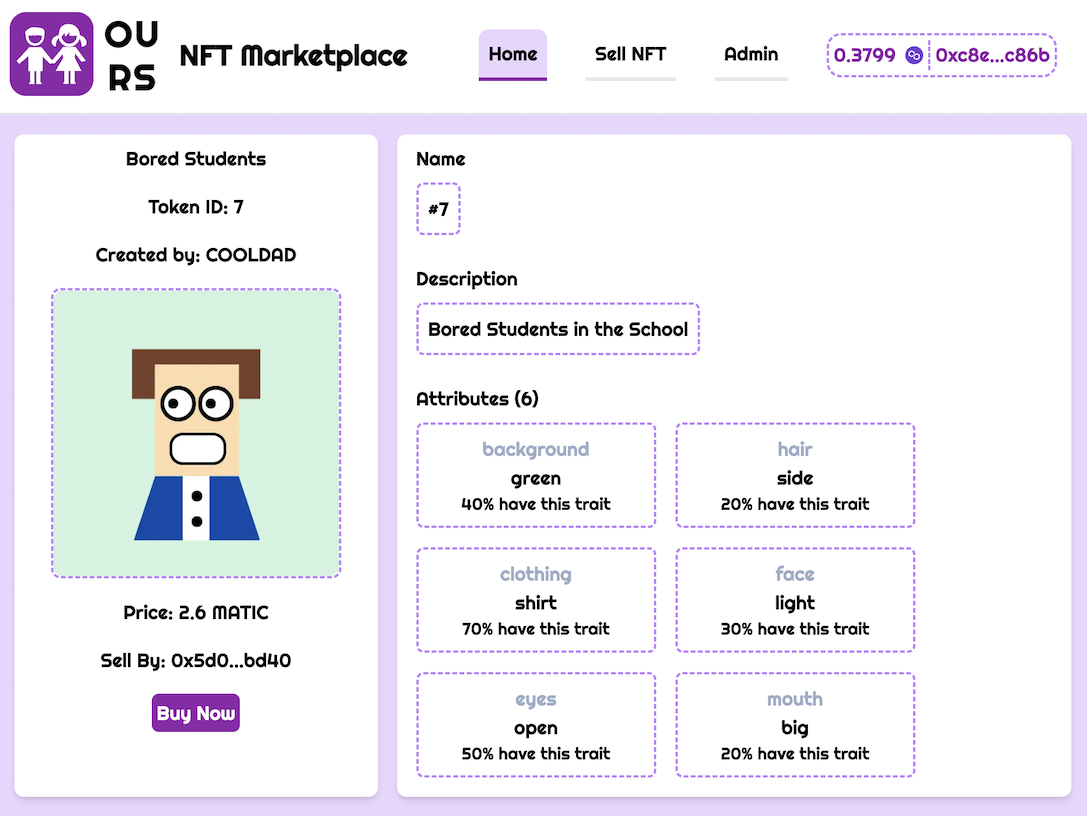
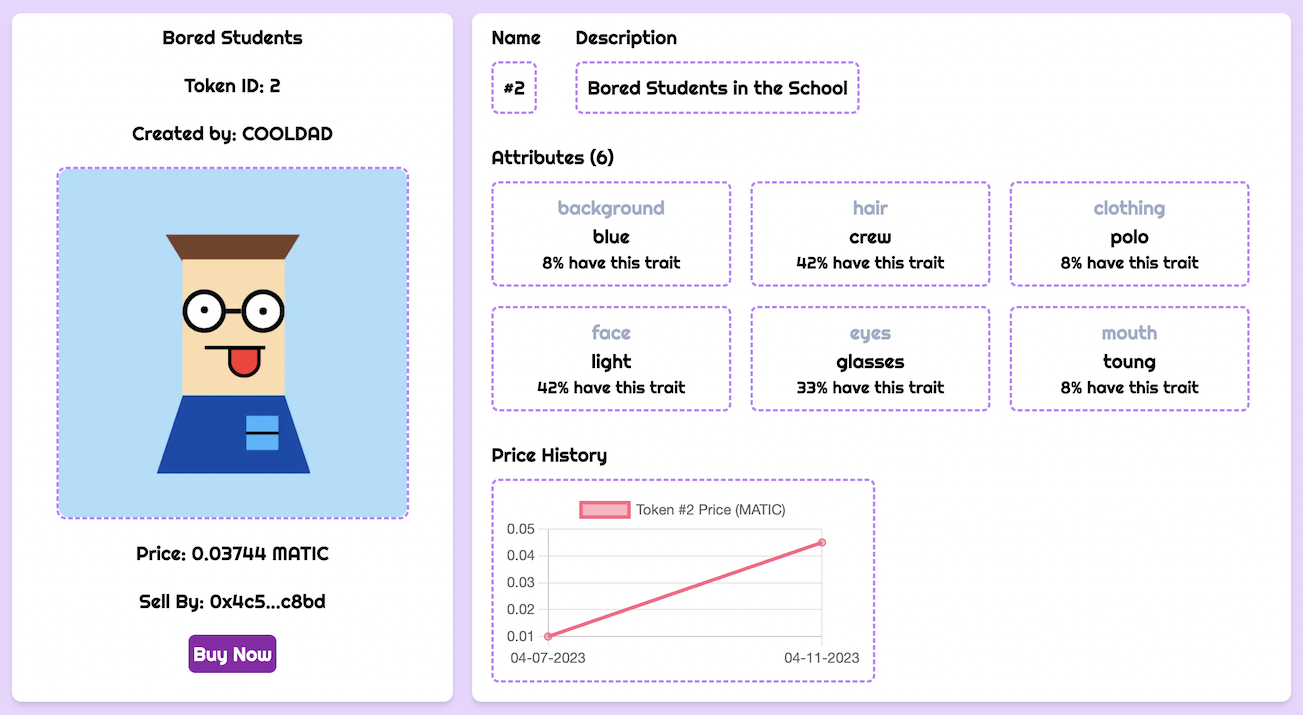
add price chart

diff --git a/frontend_nextjs/src/pages/[collectionContract]/[tokenId].js b/frontend_nextjs/src/pages/[collectionContract]/[tokenId].js
@@ -6,6 +6,7 @@ import { ethers } from "ethers";
 import { useRouter } from "next/router";
 import Image from "next/image";
 import Alert from "@/components/Alert";
+import Chart from "@/components/PriceChart";
 
 export default function Nft() {
   const {
@@ -56,6 +57,17 @@ export default function Nft() {
       )
     : null;
 
+  // const alltransactions = data ? data.boughtNFTs : null;
+  // console.log("a", alltransactions);
+
+  const transactionsArr = data
+    ? data.boughtNFTs.filter(
+        (transaction) =>
+          transaction.nftContractAddr === collectionContract &&
+          transaction.tokenId === tokenId
+      )
+    : null;
+
   useEffect(() => {
     const calculateRarity = async (listings) => {
       const _theNftContract = [nftContract, nft2Contract].find(
@@ -88,16 +100,6 @@ export default function Nft() {
     }
   }, []);
 
-  const convertAddress = (addr) => {
-    return addr.slice(0, 5) + "..." + addr.slice(addr.length - 4);
-  };
-
-  const showSeller = !seller
-    ? ""
-    : seller === walletAddress
-    ? "You"
-    : convertAddress(seller);
-
   useEffect(() => {
     const getNftUri = async () => {
       const _theNftContract = [nftContract, nft2Contract].find(
@@ -129,6 +131,16 @@ export default function Nft() {
       getNftUri();
     }
   }, []);
+
+  const convertAddress = (addr) => {
+    return addr.slice(0, 5) + "..." + addr.slice(addr.length - 4);
+  };
+
+  const showSeller = !seller
+    ? ""
+    : seller === walletAddress
+    ? "You"
+    : convertAddress(seller);
 
   const totalPrice = price
     ? (
@@ -200,13 +212,17 @@ export default function Nft() {
           </button>
         </div>
         <div className={styles.nftInfoRight}>
-          <div className={styles.nftInfoRightItem}>
-            <p className={styles.nftInfoRightItemText}>Name</p>
-            <div className={styles.nftDescriptionContainer}>{name}</div>
-          </div>
-          <div className={styles.nftInfoRightItem}>
-            <p className={styles.nftInfoRightItemText}>Description</p>
-            <div className={styles.nftDescriptionContainer}>{description}</div>
+          <div className="flex flex-row">
+            <div className={styles.nftInfoRightItem}>
+              <p className={styles.nftInfoRightItemText}>Name</p>
+              <div className={styles.nftDescriptionContainer}>{name}</div>
+            </div>
+            <div className={styles.nftInfoRightItem}>
+              <p className={styles.nftInfoRightItemText}>Description</p>
+              <div className={styles.nftDescriptionContainer}>
+                {description}
+              </div>
+            </div>
           </div>
           <div className={styles.nftInfoRightItem}>
             <p className={styles.nftInfoRightItemText}>
@@ -239,6 +255,12 @@ export default function Nft() {
                   </div>
                 </div>
               ))}
+            </div>
+          </div>
+          <div className={styles.nftInfoRightItem}>
+            <p className={styles.nftInfoRightItemText}>Price History</p>
+            <div className={styles.nftChartContainer}>
+              <Chart transactions={transactionsArr} tokenId={tokenId} />
             </div>
           </div>
         </div>

diff --git a/frontend_nextjs/src/components/OwnerWithdraw.js b/frontend_nextjs/src/components/OwnerWithdraw.js
@@ -4,7 +4,8 @@ import { useGlobalContext } from "../context";
 import { ethers } from "ethers";
 
 export default function OwnerWithdraw() {
-  const { contract, walletAddress, setShowAlert } = useGlobalContext();
+  const { contract, walletAddress, setShowAlert, provider, setWalletBalance } =
+    useGlobalContext();
   const [withdrawAmount, setWithdrawAmount] = useState("");
   const [contractBalance, setContractBalance] = useState("");
   const [ownerBalance, setOwnerBalance] = useState("");
@@ -30,6 +31,13 @@ export default function OwnerWithdraw() {
   const showWalletAddress = walletAddress ? convertAddress(walletAddress) : "";
   const showContractAddress = contract ? convertAddress(contract.target) : "";
 
+  const updateAccountBalance = async () => {
+    console.log("not call?");
+    const balance = (await provider.getBalance(walletAddress)).toString();
+    const balanceInETH = ethers.formatEther(balance);
+    setWalletBalance(balanceInETH);
+  };
+
   const handleOwnerWithdraw = async () => {
     const withdrawInWei = ethers.parseEther(withdrawAmount);
     if (contract) {
@@ -51,6 +59,7 @@ export default function OwnerWithdraw() {
             )}) withdrew ${ethers.formatEther(amount)} MATIC.`,
           });
           setUpdateBalance((pre) => !pre);
+          updateAccountBalance();
         });
       } catch (error) {
         console.log(error);

diff --git a/frontend_nextjs/src/components/UserWithdraw.js b/frontend_nextjs/src/components/UserWithdraw.js
@@ -4,7 +4,8 @@ import { useGlobalContext } from "../context";
 import { ethers } from "ethers";
 
 export default function UserWithdraw() {
-  const { contract, walletAddress, setShowAlert } = useGlobalContext();
+  const { contract, walletAddress, setShowAlert, provider, setWalletBalance } =
+    useGlobalContext();
   const [userBalance, setUserBalance] = useState("");
   const [updateBalance, setUpdateBalance] = useState(false);
 
@@ -18,12 +19,18 @@ export default function UserWithdraw() {
       }
     };
     getUserBalance();
-  }, [updateBalance]);
+  }, [updateBalance, walletAddress]);
 
   const convertAddress = (addr) => {
     return addr.slice(0, 5) + "..." + addr.slice(addr.length - 4);
   };
   const showWalletAddress = walletAddress ? convertAddress(walletAddress) : "";
+
+  const updateAccountBalance = async () => {
+    const balance = (await provider.getBalance(walletAddress)).toString();
+    const balanceInETH = ethers.formatEther(balance);
+    setWalletBalance(balanceInETH);
+  };
 
   const handleUserWithdraw = async () => {
     if (contract) {
@@ -45,6 +52,7 @@ export default function UserWithdraw() {
             )}) withdrew ${ethers.formatEther(amount)} MATIC.`,
           });
           setUpdateBalance((pre) => !pre);
+          updateAccountBalance();
         });
       } catch (error) {
         console.log(error);

diff --git a/frontend_nextjs/src/components/PriceChart.js b/frontend_nextjs/src/components/PriceChart.js
@@ -1,0 +1,39 @@
+import { ethers } from "ethers";
+import { Line } from "react-chartjs-2";
+import Chart from "chart.js/auto";
+import moment from "moment";
+
+export default function PriceChart({ transactions, tokenId }) {
+  const options = {
+    responsive: true,
+    plugins: {
+      legend: {
+        position: "top",
+      },
+      title: {
+        display: false,
+        text: "Chart.js Line Chart",
+      },
+    },
+  };
+
+  const labels = transactions
+    ? transactions.map((tran) => moment.unix(tran.time).format("MM-DD-YYYY"))
+    : [];
+
+  const data = {
+    labels,
+    datasets: [
+      {
+        label: `Token #${tokenId} Price (MATIC)`,
+        data: transactions
+          ? transactions.map((tran) => ethers.formatEther(tran.price))
+          : [],
+        borderColor: "rgb(255, 99, 132)",
+        backgroundColor: "rgba(255, 99, 132, 0.5)",
+      },
+    ],
+  };
+
+  return data ? <Line options={options} data={data} /> : null;
+}

diff --git a/frontend_nextjs/src/styles/index.js b/frontend_nextjs/src/styles/index.js
@@ -82,9 +82,12 @@ const styles = {
   nftAttributesContainer: "flex flex-row flex-wrap",
   nftAttributeBox:
     "flex flex-col items-center w-[200px] border-[2px] border-dashed border-purple-400 m-2 rounded-md p-2 hover:bg-purple-200",
+
   nftAttributeKey: "text-siteWhite",
   nftAttributeValue: "",
   nftAttributeRare: "text-sm",
+  nftChartContainer:
+    "border-[2px] border-dashed border-purple-400 m-2 rounded-md w-fit p-2 hover:bg-purple-200",
 
   // Forms on Sell-NFT page
   sellContainer:

diff --git a/frontend_nextjs/src/components/Card.js b/frontend_nextjs/src/components/Card.js
@@ -9,10 +9,10 @@ export default function Card({
   tokenId,
   seller,
   totalPrice,
-  walletAddress,
   nftContractAddr,
 }) {
-  const { contract, setShowAlert, setUpdateUI } = useGlobalContext();
+  const { contract, setShowAlert, setUpdateUI, walletAddress } =
+    useGlobalContext();
 
   const convertAddress = (addr) => {
     return addr.slice(0, 5) + "..." + addr.slice(addr.length - 4);

diff --git a/frontend_nextjs/src/pages/_app.js b/frontend_nextjs/src/pages/_app.js
@@ -6,7 +6,7 @@ import { ApolloProvider, ApolloClient, InMemoryCache } from "@apollo/client";
 
 const client = new ApolloClient({
   cache: new InMemoryCache(),
-  uri: "https://api.studio.thegraph.com/query/43852/nftmarket/v0.0.3",
+  uri: "https://api.studio.thegraph.com/query/43852/nftmarket/v0.0.7",
 });
 
 export default function App({ Component, pageProps }) {

diff --git a/frontend_nextjs/src/hooks/subgraph.js b/frontend_nextjs/src/hooks/subgraph.js
@@ -17,6 +17,15 @@ const GET_NFTmarket_ITEMS = gql`
       price
       time
     }
+    boughtNFTs(first: 50, orderBy: time) {
+      id
+      nftContractAddr
+      tokenId
+      buyer
+      seller
+      price
+      time
+    }
   }
 `;
 

diff --git a/frontend_nextjs/src/context/index.js b/frontend_nextjs/src/context/index.js
@@ -154,6 +154,7 @@ export const GlobalContextProvider = ({ children }) => {
         nft2Contract,
         walletAddress,
         walletBalance,
+        setWalletBalance,
         connectWallet,
         isAdmin,
         provider,
